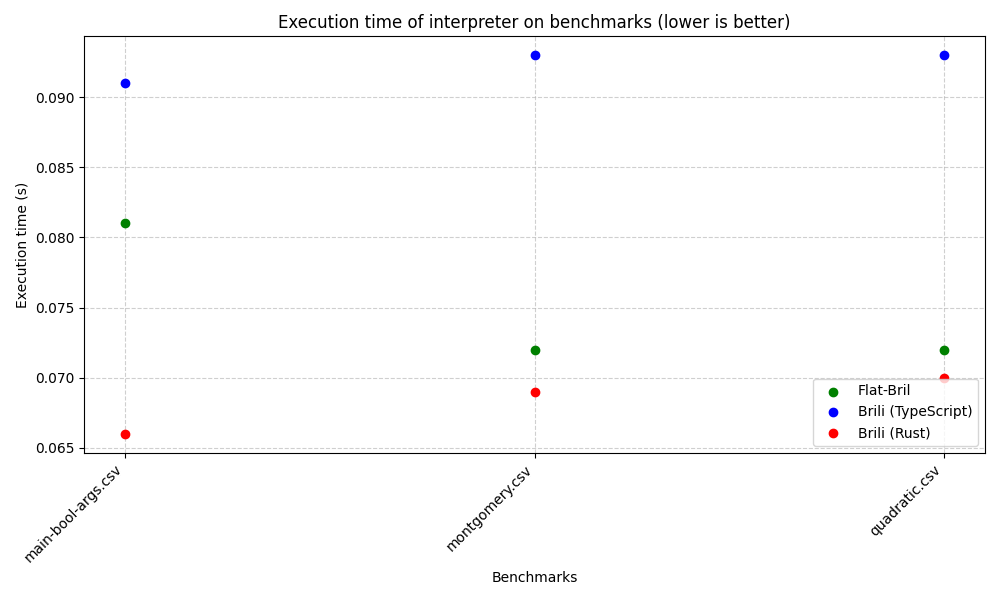
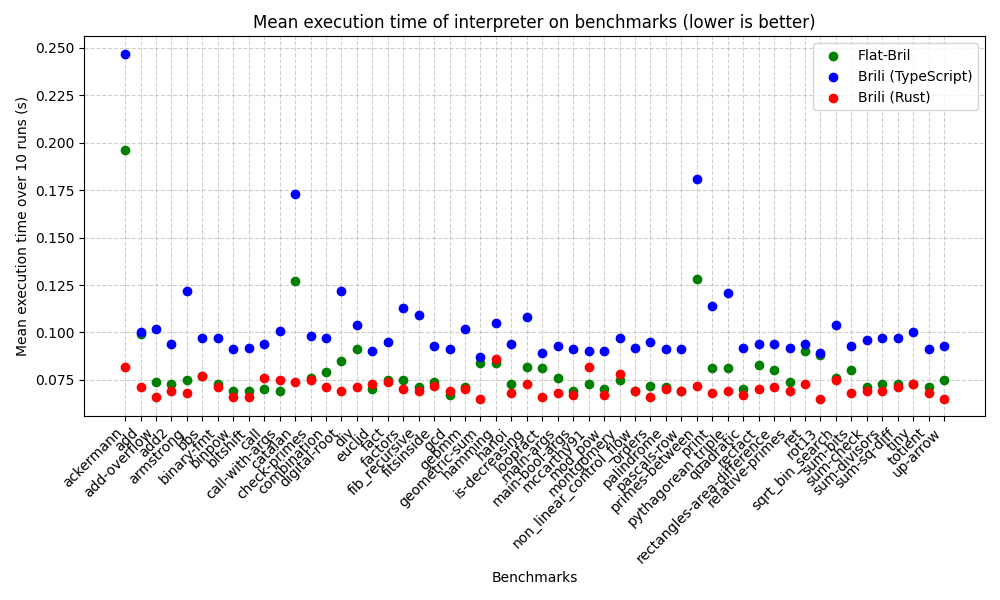
fix bugs in benchmarking script

diff --git a/plot_results.py b/plot_results.py
@@ -13,11 +13,12 @@ if __name__ == "__main__":
 
     csv_files = glob.glob("benchmark_results/*.csv")
 
-    for csv_file in csv_files:
+    for csv_file in csv_files[:55]:
         with open(csv_file, "r") as file:
-            next(file)
-            for line in file:
-                benchmark = os.path.basename(csv_file)
+            lines = file.readlines()[1:]
+            for line in lines:
+                basename = os.path.basename(csv_file)
+                benchmark = os.path.splitext(basename)[0]
                 run, result = line.strip().split(",")[:2]
                 if result != "timeout":
                     data.append((benchmark, run, round(float(result), 3)))
@@ -34,16 +35,16 @@ if __name__ == "__main__":
             for (bench_name, run, result) in data
             if bench_name == benchmark and run == "flat-bril"
         ]
-        ts_result = next(
+        ts_result = [
             result
             for (bench_name, run, result) in data
             if bench_name == benchmark and run == "brili-ts"
-        )
-        rs_result = next(
+        ]
+        rs_result = [
             result
             for (bench_name, run, result) in data
             if bench_name == benchmark and run == "brili-rs"
-        )
+        ]
 
         flat_results.append(flat_result)
         ts_results.append(ts_result)
@@ -57,12 +58,12 @@ if __name__ == "__main__":
     plt.scatter(x, rs_results, color="red", label="Brili (Rust)", zorder=2) 
 
     plt.title(
-        "Execution time of interpreter on benchmarks (lower is better)"
+        "Mean execution time of interpreter on benchmarks (lower is better)"
     )
     plt.xticks(x, benchmarks, rotation=45, ha="right")
 
     plt.xlabel("Benchmarks")
-    plt.ylabel("Execution time (s)")
+    plt.ylabel("Mean execution time over 10 runs (s)")
     plt.legend()
     plt.grid(zorder=1, linestyle="--", alpha=0.6)
 
